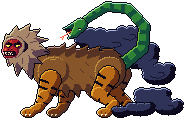
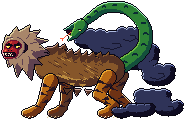
Nue neu gezeichnet: gewölbter Tanuki-Leib mit Fellstrichen, schlankere Tigerbeine, glatter Schlangenschwanz mit Rautenmuster
Claude-Session: https://claude.ai/code/session_01KhgxT7a5tRTGeQVFkHSAcV

diff --git a/art_src/fable/bosses_1/boss_nue.py b/art_src/fable/bosses_1/boss_nue.py
@@ -42,45 +42,59 @@ def P(x, y):
 
 
 def tleg(c, J, ramp, far=False):
-    """tiger leg: J = (shoulder/hip, elbow/knee, wrist/hock, paw)"""
+    """Tigerbein: J = (Schulter/Hüfte, Ellbogen/Knie, Fessel, Pfote) – weich verjüngt, geschwungene Streifen, Krallen."""
     a, b, d, e = J
     p = C()
-    up = L(*a, 10.4, *b, 7.4)
-    lo = L(*b, 6.6, *d, 4.8)
-    ft = L(*d, 4.6, e[0] + 2, e[1] - 2, 4.2)
-    paw = E(e[0] - 2, e[1], 7.4, 4.4)
-    p.form(up, ramp, sd=4, hl=1)
-    for i_, t0 in enumerate((0.1, 0.3, 0.5, 0.7)):
-        cut = ~sh(up, -7, 0) if i_ % 2 else ~sh(up, 9, 0)
-        p.fill(band(a, b, t0, t0 + 0.12, 12) & up & cut, 'K')
-    p.form(lo, ramp, sd=2, hl=1)
-    for i_, t0 in enumerate((0.15, 0.4, 0.65, 0.9)):
-        cut = ~sh(lo, -5, 0) if i_ % 2 else ~sh(lo, 6, 0)
-        p.fill(band(b, d, t0, t0 + 0.1, 9) & lo & cut, 'K')
-    p.form(ft, ramp, sd=2, hl=1)
-    p.form(paw, ramp, sd=2, hl=1)
-    p.line([(e[0] - 5, e[1] - 1), (e[0] - 5, e[1] + 3)], ramp[0], only=paw)
-    p.line([(e[0] - 1, e[1]), (e[0] - 1, e[1] + 3)], ramp[0], only=paw)
+    up = L(*a, 7.6, *b, 5.4)
+    lo = L(*b, 4.8, *d, 3.6)
+    ft = L(*d, 4.2, e[0] + 1, e[1] - 2, 4.4)
+    paw = E(e[0] - 1, e[1] - 0.5, 7.6, 4.6)
+    leg = up | lo | ft | paw
+    p.form(leg, ramp, sd=4, hl=1)
+    # geschwungene Streifen: schmale schräge Keile, abwechselnd von vorn und hinten
+    for i_, t0 in enumerate((0.25, 0.5, 0.75)):
+        q = lerp(a, b, t0); side = 1 if i_ % 2 else -1
+        p.fill(tri((q[0] + side * 8, q[1] - 1), 160 if side > 0 else 20, 10, 3.6) & up, 's0')
+    for i_, t0 in enumerate((0.3, 0.7)):
+        q = lerp(b, d, t0); side = -1 if i_ % 2 else 1
+        p.fill(tri((q[0] + side * 5, q[1]), 160 if side > 0 else 20, 6, 2.6) & lo, 's0')
     c.stamp(p, 'K')
-    for i in range(3):
-        cx = int(e[0] - 9 + i * 4); cy = int(e[1] + 2)
-        c.pxs([(cx, cy), (cx + 1, cy), (cx, cy + 1)], 'b3' if not far else 'b2')
+    for i in range(4):                                            # Krallen
+        cx = int(e[0] - 8 + i * 3.6); cy = int(e[1] + 3)
+        c.pxs([(cx, cy), (cx - 1, cy + 1)], 'b3' if not far else 'b2')
+
+
+def _spline(pts, k=4):
+    """Catmull-Rom: glatte Kurve durch die Kontrollpunkte (k Zwischenpunkte je Abschnitt)."""
+    out = []
+    P_ = [pts[0]] + list(pts) + [pts[-1]]
+    for i in range(1, len(P_) - 2):
+        p0, p1, p2, p3 = P_[i - 1], P_[i], P_[i + 1], P_[i + 2]
+        for j in range(k):
+            t = j / k
+            out.append(tuple(0.5 * ((2 * p1[a]) + (-p0[a] + p2[a]) * t + (2 * p0[a] - 5 * p1[a] + 4 * p2[a] - p3[a]) * t * t
+                                    + (-p0[a] + 3 * p1[a] - 3 * p2[a] + p3[a]) * t * t * t) for a in (0, 1)))
+    out.append(pts[-1])
+    return out
 
 
 def snake(c, pts, mouth=3):
     """pts: control points from the rump to the neck; head faces along the last segment"""
+    ctrl = pts
+    pts = _spline(pts, 4)
     n = len(pts) - 1
     p = C()
     m = np.zeros((px.H, px.W), bool)
+    belly = np.zeros_like(m)
     for i in range(n):
-        r0_ = 6.2 - i * 0.45; r1_ = 6.2 - (i + 1) * 0.45
+        r0_ = 7.4 - i * 0.62 / 4; r1_ = 7.4 - (i + 1) * 0.62 / 4
         m |= L(*pts[i], r0_, *pts[i + 1], r1_)
     p.form(m, SNK, sd=3, hl=1)
-    # belly scales on the inner side + diamond blotches
-    for i in range(n):
-        for t in (0.25, 0.75):
+    for i in range(0, n, 2):                                      # Rautenmuster auf dem Rücken
+        for t in (0.5,):
             q = lerp(pts[i], pts[i + 1], t)
-            p.fill(band(pts[i], pts[i + 1], t - 0.1, t + 0.1, 8) & m & (p.a == I('g2')), 'g1')
+            r_ = max(1.6, 3.2 - i * 0.25 / 4)
+            p.fill(E(q[0], q[1] - 1.5, r_, r_ * 0.7) & m & ~E(q[0], q[1] + 0.5, r_, r_ * 0.7), 'g0')
     c.stamp(p, 'K')
     # head
     hx, hy = pts[-1]
@@ -159,25 +173,30 @@ def nue(**kw):
     tleg(c, LJ(S['fh'], Bk), TFAR, far=True)
     snake(c, [Bk(q) if i < 2 else P(q[0] + dx, q[1] + dy) for i, q in enumerate(S['snk'])], S['mouth'])
 
-    # ---- tanuki body: shaggy barrel
+    # ---- Tanuki-Leib: Brustkorb vorn höher, Bauch hängt, kräftige Hüfte; Rücken dunkler, Bauch heller
     p = C()
     ch, ru = F((92, 82)), Bk((144, 84))
-    body = L(*ch, 22, *ru, 19)
+    mid = lerp(ch, ru, 0.5)
+    body = (E(ch[0] - 1, ch[1] - 5, 19, 18) | E(mid[0] + 2, mid[1] + 4, 23, 12) | E(ru[0] + 2, ru[1] - 2, 16, 15)
+            | L(ch[0], ch[1] - 2, 15, ru[0], ru[1] - 1, 12))
     tuft = np.zeros_like(body)
-    for t, a_, l_ in ((0.0, 80, 10), (0.2, 75, 11), (0.42, 78, 10), (0.64, 72, 10), (0.86, 70, 9)):   # belly fringe
-        q = lerp(ch, ru, t); tuft |= tri((q[0], q[1] + 17), a_, l_, 9)
-    for t, a_, l_ in ((0.1, 300, 9), (0.3, 305, 10), (0.52, 310, 9), (0.74, 315, 9), (0.96, 330, 10), (1.1, 10, 9)):   # back ridge
-        q = lerp(ch, ru, t); tuft |= tri((q[0], q[1] - 17), a_, l_, 9)
+    for t in (0.0, 0.14, 0.28, 0.42, 0.56, 0.7, 0.84, 0.98):                               # weiche Fellbuckel am Rücken
+        q = lerp(ch, ru, t); tuft |= tri((q[0] + 1, q[1] - 14 - (7 if t < 0.25 else 2 if t < 0.5 else 0)), 290, 5, 7)
+    for t, l_ in ((0.25, 5), (0.45, 6), (0.65, 5)):                                          # Bauchzotteln
+        q = lerp(ch, ru, t); tuft |= tri((q[0], q[1] + 19), 100, l_, 6)
     full = body | tuft
     p.form(full, FUR, sd=6, hl=1)
-    back = full & ~sh(full, 0, 9) & (px.X > ch[0] - 8)                               # dark dorsal saddle
+    back = full & ~sh(full, 0, 8)                                                           # dunkler Sattel
     p.fill(back & (p.a == I('s2')), 's1'); p.fill(back & (p.a == I('s3')), 's2')
-    for t, yo in ((0.1, 2), (0.3, 8), (0.5, 0), (0.7, 7), (0.9, 2), (0.2, -6), (0.6, -7), (0.85, -4)):   # fur ticks
-        q = lerp(ch, ru, t); x_, y_ = int(q[0]), int(q[1] + yo)
-        p.line([(x_, y_), (x_ + 3, y_ + 3)], 's1', only=body)
-    p.form(E(ch[0] - 1, ch[1] + 3, 16, 15) & full, FUR, sd=3, hl=1)                     # shoulder mass
-    p.form(E(ru[0] + 3, ru[1] + 1, 15, 15) & full, FUR, sd=3, hl=1)                     # haunch
-    p.fill(R(ch[0] - 4, ch[1] - 9, ch[0] + 1, ch[1] - 9), 's3', only=full)
+    bel = full & ~sh(full, 0, -7) & (px.X > ch[0] - 6) & (px.X < ru[0] + 4)                # heller Bauch
+    p.fill(bel & (p.a == I('s2')), 's3')
+    import random as _r
+    rg = _r.Random(7)
+    for k in range(34):                                                                    # Fellstriche, schräg nach hinten
+        t = rg.random(); q = lerp(ch, ru, t)
+        x_, y_ = int(q[0] + rg.uniform(-10, 10)), int(q[1] + rg.uniform(-12, 10))
+        if body[min(px.H - 1, max(0, y_)), min(px.W - 1, max(0, x_))]:
+            p.line([(x_, y_), (x_ + 3, y_ + 2)], 's1' if k % 3 else 's3', only=body)
     c.stamp(p, 'K')
 
     tleg(c, LJ(S['nh'], Bk), TIG)
